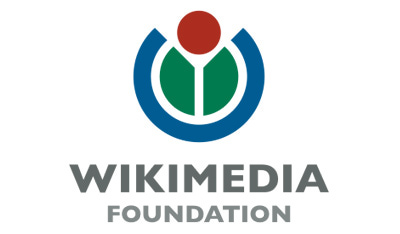
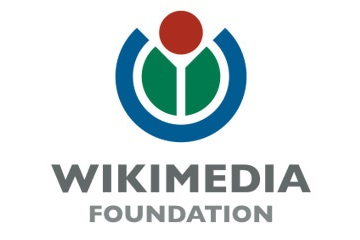
edit teaching tab

diff --git a/teaching/teaching_index.md b/teaching/teaching_index.md
@@ -6,7 +6,7 @@ header:
 permalink: /teaching/
 author_profile: false
 feature_row:
-  - image_path: /assets/images/wikimedia.png
+  - image_path: /assets/images/wikimedia.jpg
     alt: "smobsc"
     title: "Scientific Methods for Open Behavioral, Social and Cognitive Sciences"
     excerpt: "Open and collaborative methods book funded by WikiMedia."
